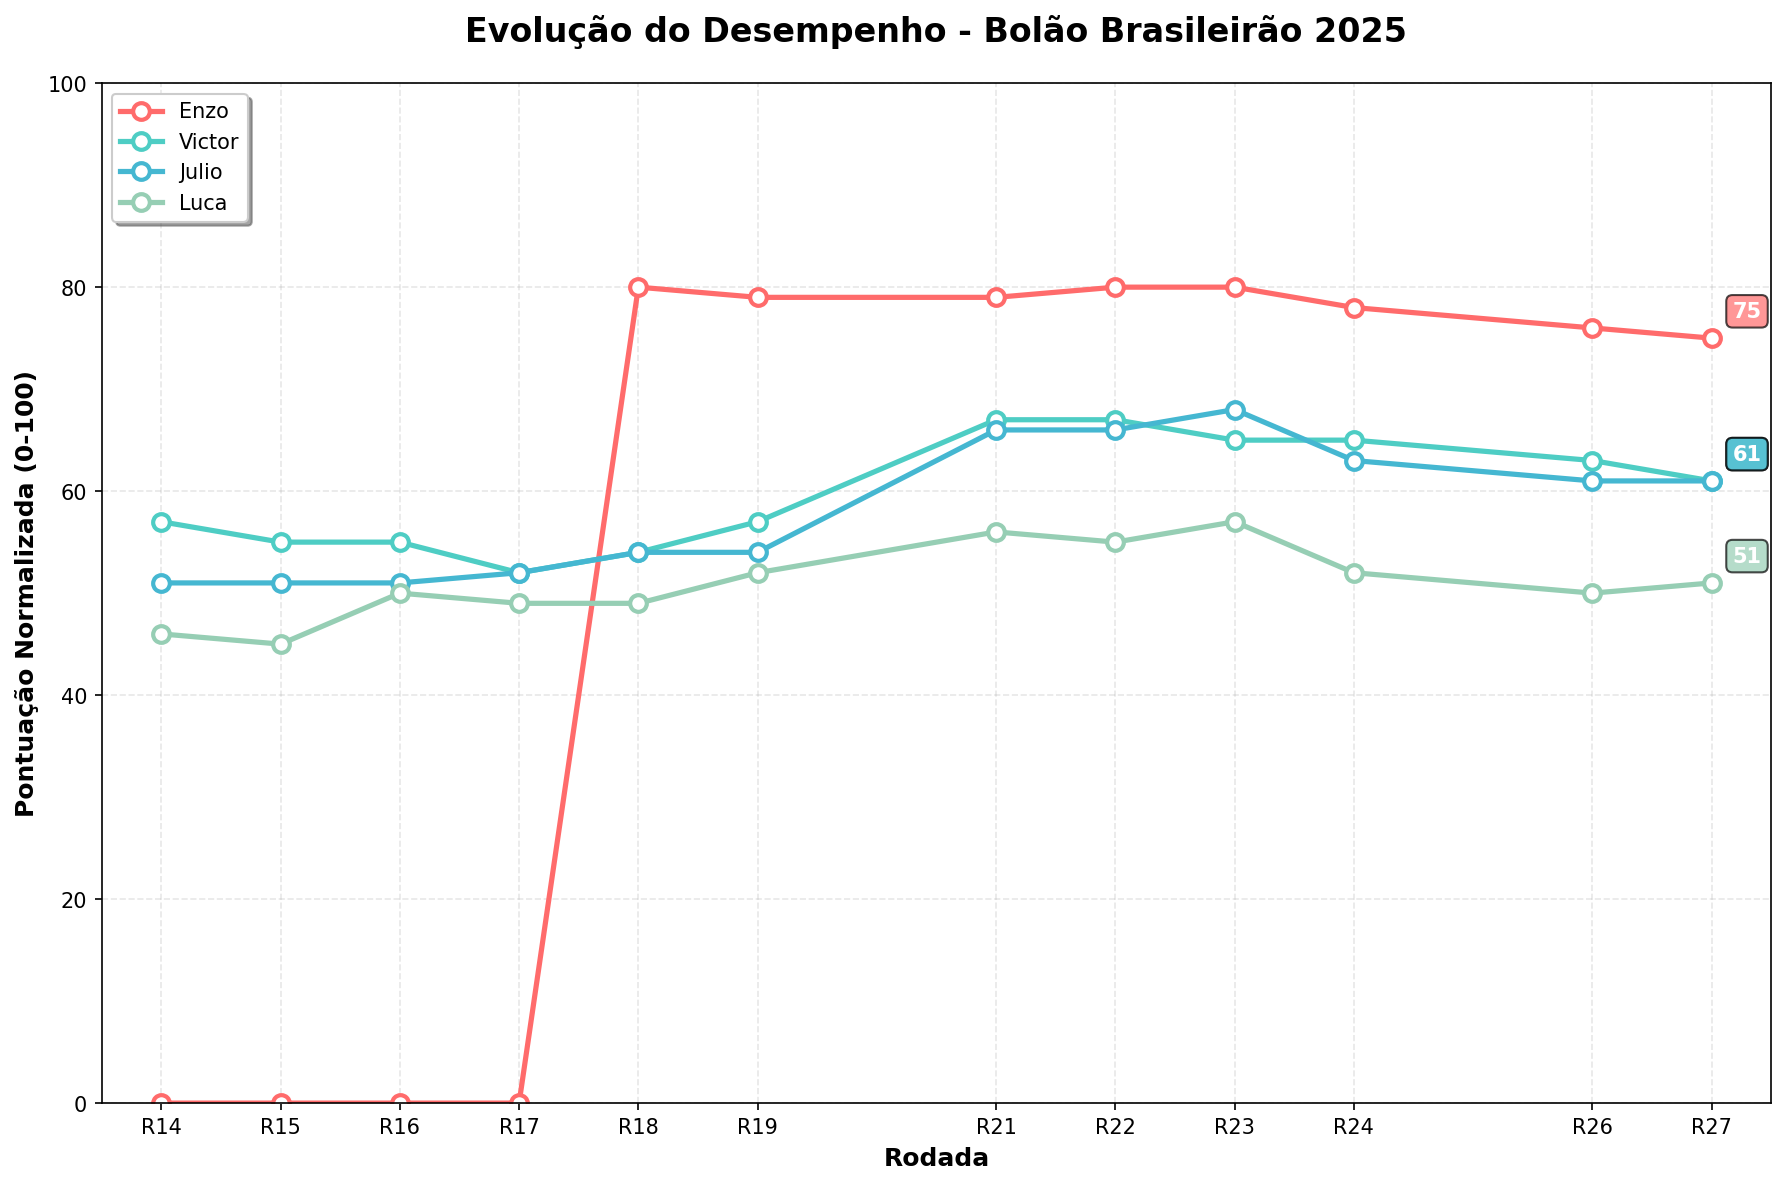
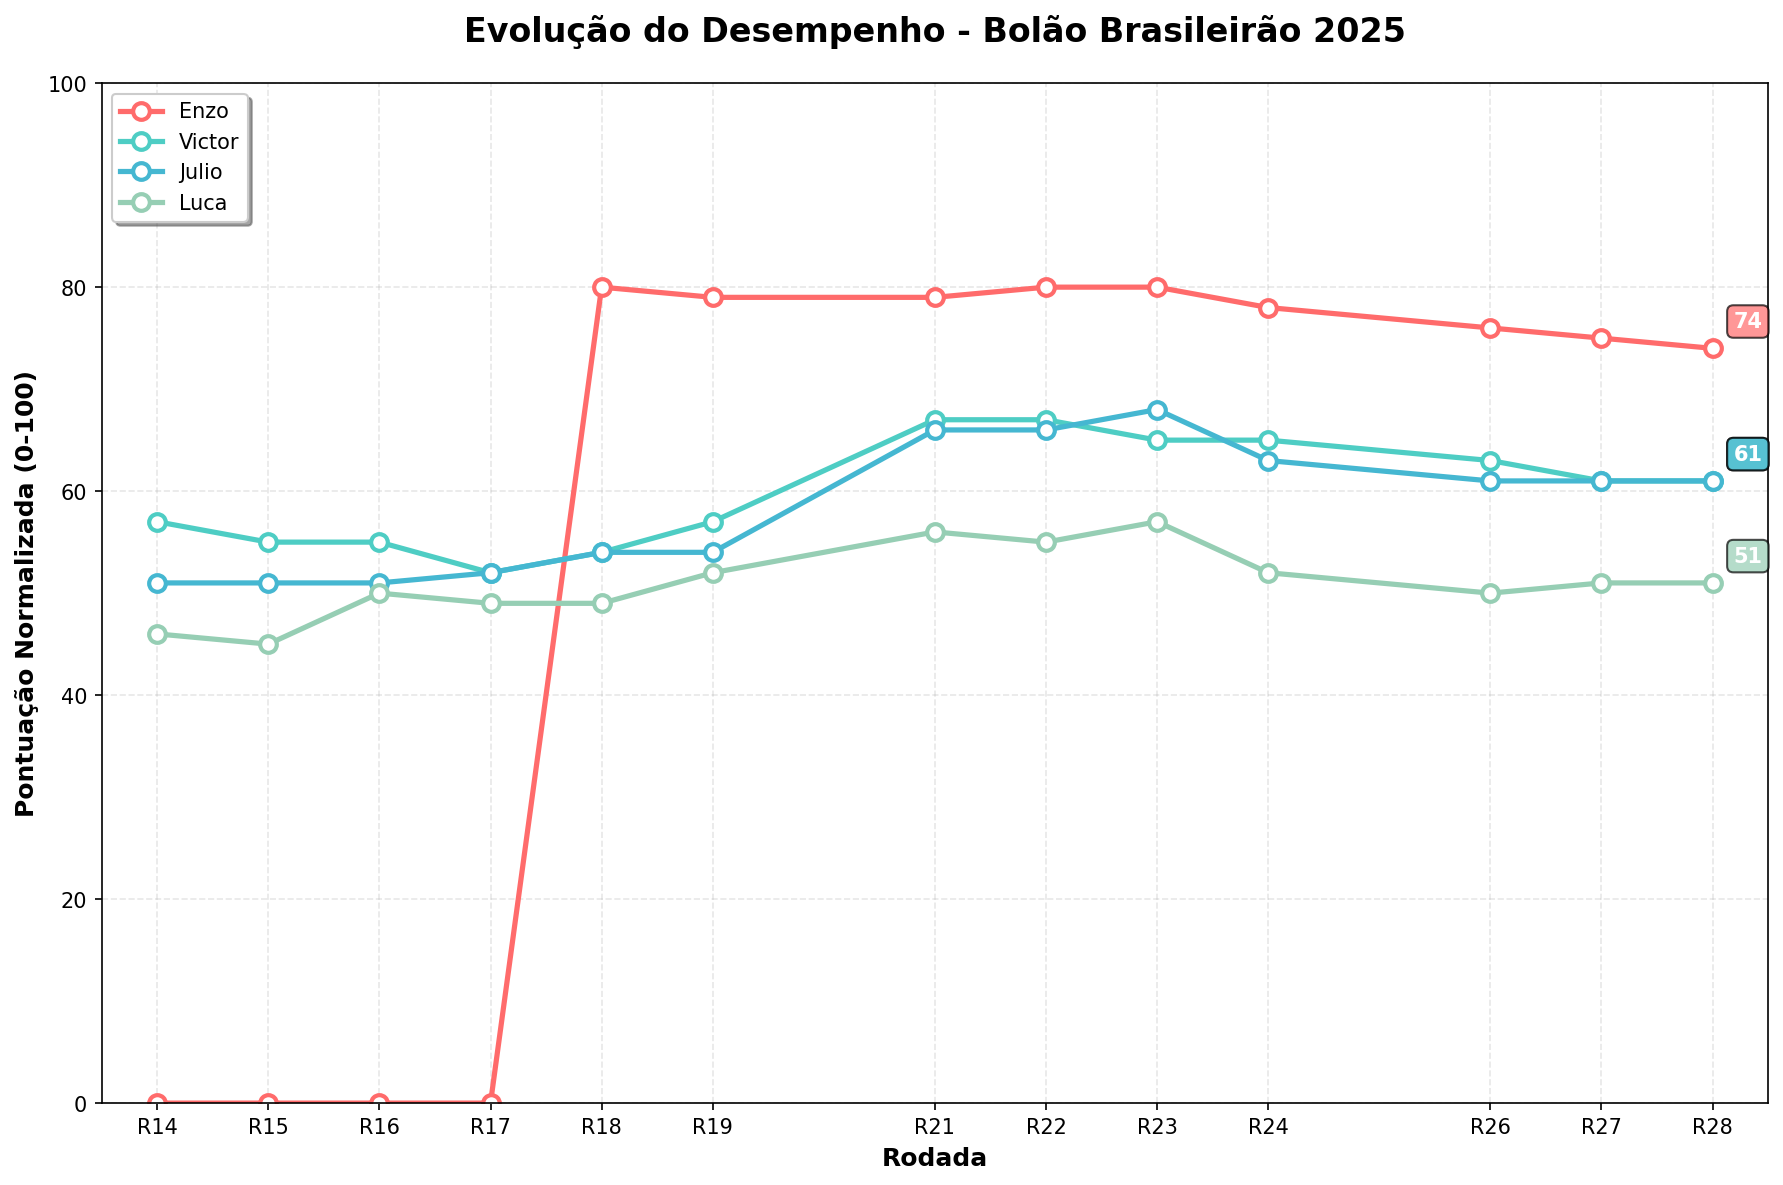
Atualizacao automatica - 16/10/2025 16:30:28,53

diff --git a/README.md b/README.md
@@ -2,7 +2,7 @@
 
 ## 🏆 Resultados Atuais
 
-**Última Atualização:** 2025-10-09 10:14:07
+**Última Atualização:** 2025-10-16 16:30:27
 
 | Time | Real | Enzo | Victor | Julio | Luca |
 |------|------|------|------|------|------|
@@ -14,9 +14,9 @@
 | Bahia | 6 | 8°(18p) | 4°(18p) | 6°(20p) | 7°(19p) |
 | Fluminense | 7 | 9°(18p) | 6°(19p) | 10°(17p) | 13°(14p) |
 | São Paulo | 8 | 14°(14p) | 9°(19p) | 8°(20p) | 9°(19p) |
-| Red Bull Bragantino | 9 | 6°(17p) | 17°(12p) | 16°(13p) | 15°(14p) |
-| Ceará | 10 | 13°(17p) | 13°(17p) | 11°(19p) | 18°(12p) |
-| Vasco da Gama | 11 | 16°(15p) | 16°(15p) | 14°(17p) | 17°(14p) |
+| Vasco da Gama | 9 | 16°(13p) | 16°(13p) | 14°(15p) | 17°(12p) |
+| Red Bull Bragantino | 10 | 6°(16p) | 17°(13p) | 16°(14p) | 15°(15p) |
+| Ceará | 11 | 13°(18p) | 13°(18p) | 11°(20p) | 18°(13p) |
 | Corinthians | 12 | 11°(19p) | 7°(15p) | 3°(11p) | 6°(14p) |
 | Grêmio | 13 | 10°(17p) | 11°(18p) | 15°(18p) | 14°(19p) |
 | Atlético-MG | 14 | 12°(18p) | 10°(16p) | 9°(15p) | 8°(14p) |
@@ -26,11 +26,11 @@
 | Fortaleza | 18 | 15°(17p) | 20°(18p) | 17°(19p) | 10°(12p) |
 | Juventude | 19 | 18°(19p) | 15°(16p) | 12°(13p) | 19°(20p) |
 | Sport | 20 | 20°(20p) | 19°(19p) | 20°(20p) | 16°(16p) |
-| **TOTAL** | | **350** | **322** | **322** | **302** |
+| **TOTAL** | | **348** | **322** | **322** | **302** |
 
 ### 🏅 Classificação Final (pontuação normalizada 0-100)
 
-🥇 **Enzo**: 75 pontos
+🥇 **Enzo**: 74 pontos
 🥈 **Victor**: 61 pontos
 🥉 **Julio**: 61 pontos
 4. **Luca**: 51 pontos
@@ -41,7 +41,6 @@
 
 | Rodada | Enzo | Victor | Julio | Luca |
 |-------|-------|-------|-------|-------|
-| R16 | 0 | 55 | 51 | 50 |
 | R17 | 0 | 52 | 52 | 49 |
 | R18 | 80 | 54 | 54 | 49 |
 | R19 | 79 | 57 | 54 | 52 |
@@ -51,12 +50,13 @@
 | R24 | 78 | 65 | 63 | 52 |
 | R26 | 76 | 63 | 61 | 50 |
 | R27 | 75 | 61 | 61 | 51 |
+| R28 | 74 | 61 | 61 | 51 |
 
 **Tendência (últimas 2 medições):**
 - **Enzo**: 📉 -1
-- **Victor**: 📉 -2
+- **Victor**: ➡ =0
 - **Julio**: ➡ =0
-- **Luca**: 📈 +1
+- **Luca**: ➡ =0
 
 ## 📖 Sobre o Projeto
 
